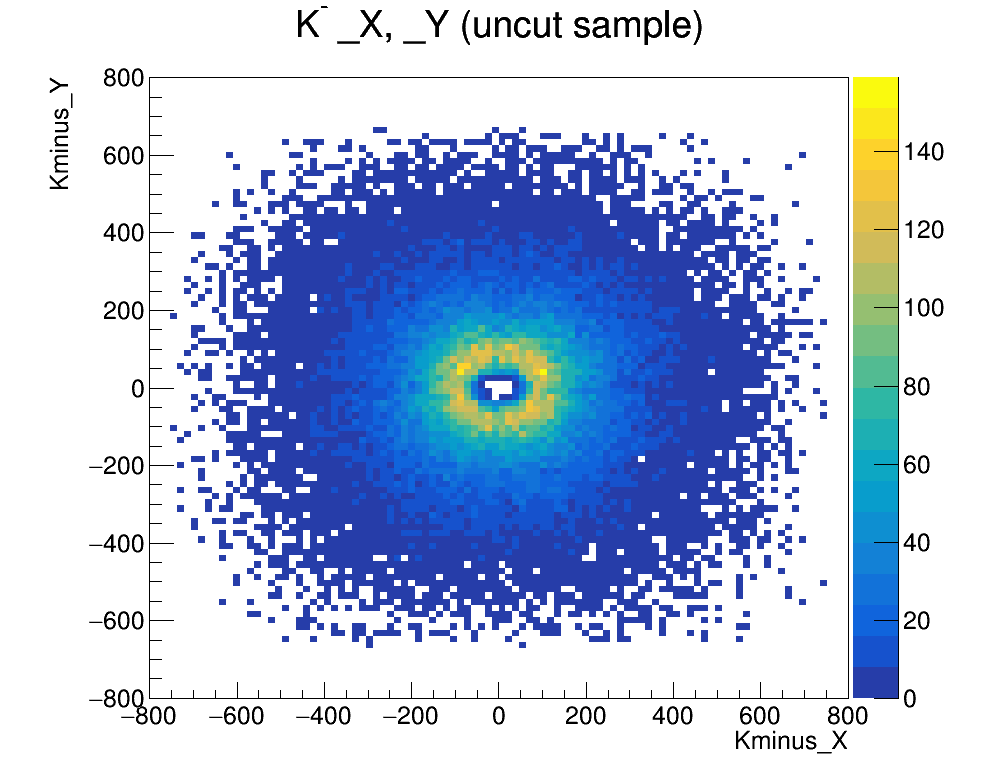
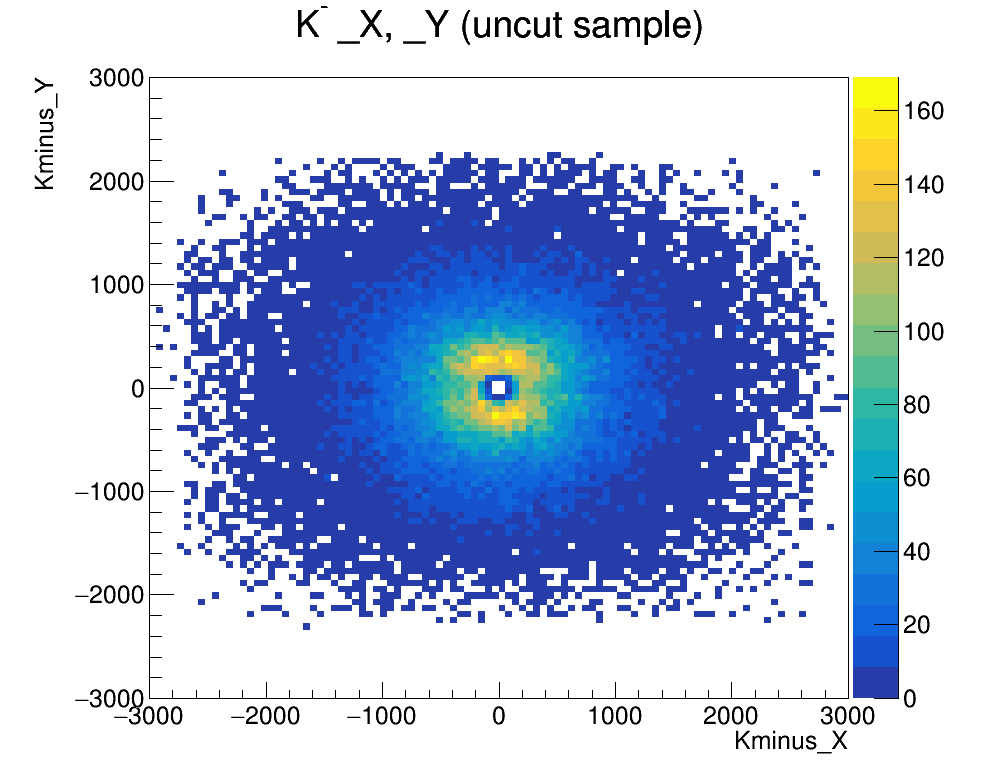
updataed script for _x _y tracking with images

diff --git a/dp_mstest_rdf.C b/dp_mstest_rdf.C
@@ -10,7 +10,7 @@ EnableImplicitMT();
 
 
 //create rdataframe for dp magdown data
-RDataFrame dpdf("D2KKpi/DecayTree", "/share/lazy/D2KKpi/test/dptest.root");
+RDataFrame dpdf("D2KKpi/DecayTree", "/share/lazy/D2KKpi/test/dptest1.root");
 
 //get and print number of entries
 /*
@@ -130,7 +130,7 @@ dptaucan->SaveAs("image/dp_tau_sigbg_cut.png");
 //particle_x, particle_y
 
 
-auto pip_pos = dpdf.Fill<double, double>(TH2D("pip_pos", "#pi^{+} _X, _Y (uncut sample)",100,-800,800,100,-800,800), {"Piplus_X","Piplus_Y"});
+auto pip_pos = dpdf.Fill<double, double>(TH2D("pip_pos", "#pi^{+} _X, _Y (uncut sample)",100,-3000,3000,100,-3000,3000), {"Piplus_X","Piplus_Y"});
 	pip_pos->SetStats(0);
 	pip_pos->GetXaxis()->SetTitle("Piplus_X");
 	pip_pos->GetYaxis()->SetTitle("Piplus_Y");
@@ -143,7 +143,7 @@ pip_pos_can->SaveAs("image/dp_XY_sample_uncut_pip.png");
 
 
 
-auto kp_pos = dpdf.Fill<double, double>(TH2D("kp_pos", "K^{+} _X, _Y (uncut sample)",100,-800,800,100,-800,800), {"Kplus_X","Kplus_Y"});
+auto kp_pos = dpdf.Fill<double, double>(TH2D("kp_pos", "K^{+} _X, _Y (uncut sample)",100,-3000,3000,100,-3000,3000), {"Kplus_X","Kplus_Y"});
 	kp_pos->SetStats(0);
 	kp_pos->GetXaxis()->SetTitle("Kplus_X");
 	kp_pos->GetYaxis()->SetTitle("Kplus_Y");
@@ -156,7 +156,7 @@ kp_pos_can->SaveAs("image/dp_XY_sample_uncut_kp.png");
 
 
 
-auto km_pos = dpdf.Fill<double, double>(TH2D("km_pos", "K^{-} _X, _Y (uncut sample)",100,-800,800,100,-800,800), {"Kminus_X","Kminus_Y"});
+auto km_pos = dpdf.Fill<double, double>(TH2D("km_pos", "K^{-} _X, _Y (uncut sample)",100,-3000,3000,100,-3000,3000), {"Kminus_X","Kminus_Y"});
 	km_pos->SetStats(0);
 	km_pos->GetXaxis()->SetTitle("Kminus_X");
 	km_pos->GetYaxis()->SetTitle("Kminus_Y");
